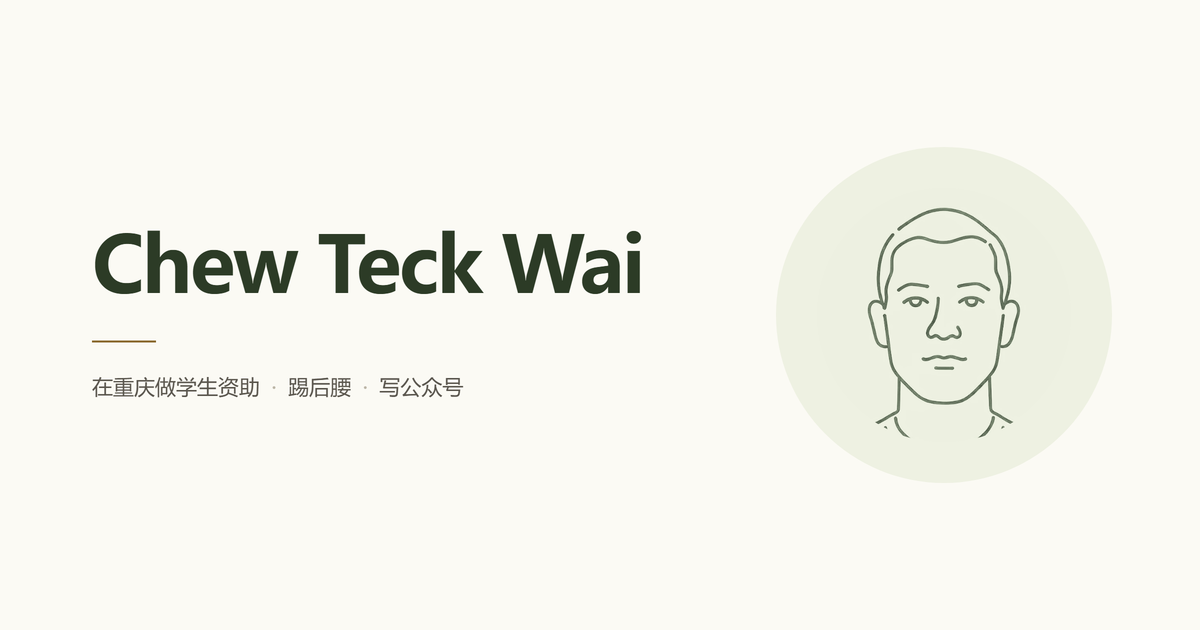
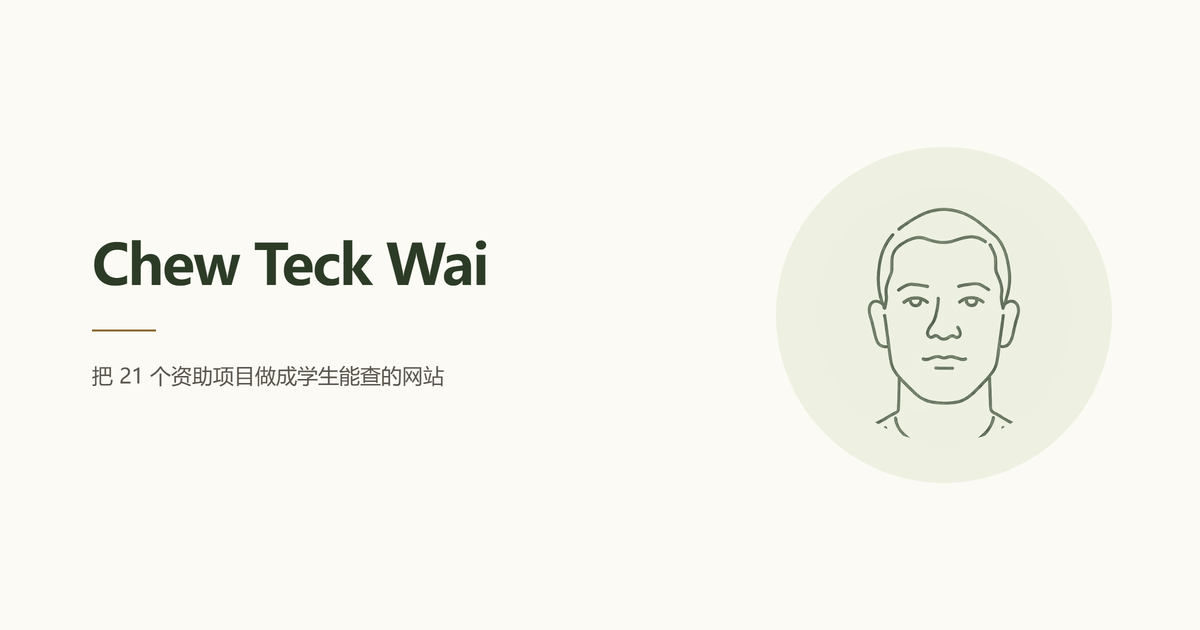
首屏重写：职位句改成价值句，撤下三名词堆砌（依据 worrydream/leerob/taniarascia 的开场模式）

Changed region(s): [[0.0617, 0.3619, 0.555, 0.4825], [0.0617, 0.573, 0.4008, 0.6333], [0.0617, 0.5127, 0.1233, 0.5429]]

diff --git a/index.html b/index.html
@@ -9,7 +9,7 @@
 <meta name="theme-color" content="#FBFAF4" media="(prefers-color-scheme:light)">
 <meta name="theme-color" content="#131614" media="(prefers-color-scheme:dark)">
 <title>Chew Teck Wai</title>
-<meta name="description" content="在重庆做学生资助，之前在中国银行做了五年理财经理。踢后腰，写公众号。">
+<meta name="description" content="把 21 个资助项目做成学生自己就能查的网站。在中国银行做了五年理财经理，现在写《停不下来的独行侠》。">
 <link rel="icon" href="data:,">
 
 <!-- B2 首页 OG / Twitter / canonical 一套。静态写死，不靠 JS（微信爬虫不执行 JS）
@@ -19,7 +19,7 @@
 <meta property="og:type" content="website">
 <meta property="og:site_name" content="Chew Teck Wai">
 <meta property="og:title" content="Chew Teck Wai">
-<meta property="og:description" content="在重庆做学生资助，之前在中国银行做了五年理财经理。踢后腰，写公众号。">
+<meta property="og:description" content="把 21 个资助项目做成学生自己就能查的网站。在中国银行做了五年理财经理，现在写《停不下来的独行侠》。">
 <meta property="og:locale" content="zh_CN">
 <meta property="og:url" content="https://aot528800-hash.github.io/me/">
 <meta property="og:image" content="https://aot528800-hash.github.io/me/assets/og-home.png">
@@ -1555,10 +1555,10 @@ html.js .view.is-active{ display:block; }
       <div class="container hero-wrap">
         <div class="cols hero-inner">
           <div class="hero-text">
-            <p class="hero-eyebrow">重庆 · 学生资助 · 后腰</p>
+            <p class="hero-eyebrow">重庆</p>
             <h1 class="hero-name" id="hero-name" lang="en">Chew Teck Wai</h1>
-            <p class="hero-big">在重庆做学生资助<br><em>把资助政策整理成能查的网站</em></p>
-            <p class="hero-desc">2014 年进中国银行做理财经理，2019 年到学校。21 个资助项目整理成网页和安卓 App。踢后腰，写公众号。</p>
+            <p class="hero-big">把 21 个资助项目<br><em>做成学生自己就能查的网站</em></p>
+            <p class="hero-desc">在中国银行做了五年理财经理，2019 年转到学校。现在把政策、数据和钱，写成普通人能看懂的文字——141 篇在《停不下来的独行侠》。</p>
             <p class="btn-row">
               <a class="btn btn--ink" href="#/story">时间线</a>
               <a class="btn btn--blue" href="#/football">足球记录</a>

diff --git a/设计规范.md b/设计规范.md
@@ -1378,3 +1378,30 @@ Kaplan 的**注意力恢复理论**（ART）把注意力分两种：定向注意
 **新增链接的可点面积**：11px 小链只有 20px 高，用透明伪元素 `inset:-14px -12px` 撑到 44px（和「完整时间线」同一招）。
 
 验收：axe 16/16、html-validate 0 error、点击目标 0 不合格、首屏 178.5KB / 2 请求、CLS 0。
+
+### J-9 首屏表述重写（2026-11-15，站长明确否掉旧版）
+
+站长原话：「在重庆做学生资助 / 把资助政策整理成能查的网站 / 2014 年进中国银行做理财经理，2019 年到学校。21 个资助项目整理成网页和安卓 App。踢后腰，写公众号。」——「都很落伍」「并没有表述个啥东西」「重庆学生资助后腰哎，都他妈写的啥呀」。
+
+**先做了研究再动手**（都是实抓的原文）：
+- **Bret Victor**（worrydream.com）：首屏只有一句 "I've dedicated my life to creating a humane dynamic medium."，连职位都不写，署名后面跟的是 "human being"
+- **Lee Robinson**（leerob.io）：先身份后使命，"My life's work is to make technology easy to understand and interesting to learn about." —— 职位退到使命后面
+- **Tania Rascia**：一句称呼+一行身份，剩下交给时间线和作品
+- **Jose Ocando**："One of my deepest joys comes from equipping creative people with the visual tools they need" —— 价值句式，从「我让什么变好」出发
+
+**四条共性**：开场句回答「我让什么东西变得怎么样」，不回答「我的职位是什么」；职位和时间线沉到第二层；一行只讲一个动词；没人把行业+岗位+爱好堆在同一行。旧版四条全违反：eyebrow 是三名词堆砌，大字第一句是职位句，desc 是简历流水账。
+
+**改法**（旧 → 新）：
+
+| 层 | 旧 | 新 | 依据 |
+|---|---|---|---|
+| eyebrow | 重庆 · 学生资助 · 后腰 | 重庆 | 三名词堆砌零信息，删掉两个；顶级站 eyebrow 只放地理定位 |
+| hero-big 第一行 | 在重庆做学生资助 | 把 21 个资助项目 | 职位句 → 动作句：动词+具体对象（21 个是真实数字） |
+| hero-big 第二行 | 把资助政策整理成能查的网站 | 做成学生自己就能查的网站 | 「整理成能查」→「学生自己就能查」：从「我做了什么」变成「用户得到什么」 |
+| hero-desc | 2014 年进中国银行做理财经理，2019 年到学校。21 个资助项目整理成网页和安卓 App。踢后腰，写公众号。 | 在中国银行做了五年理财经理，2019 年转到学校。现在把政策、数据和钱，写成普通人能看懂的文字——141 篇在《停不下来的独行侠》。 | 简历流水账 → 一句来路+一句现在在做什么；「政策、数据和钱」正好对应博客三大主题；141 篇是真实数 |
+
+**「后腰」从首屏撤下**：不是删掉，是归位——首屏按钮「足球记录」、导航「足球」、整页足球记录都还在。首屏第一行只放一个身份，不放三个。
+
+**同步**：meta description / og:description 同步改；分享卡 og-home.png 重渲染（文案换掉，「Chew Teck Wai」字号 78→56 保持单行）；DEPLOY.md 里的分享卡描述同步。
+
+验收：html-validate 0 error；axe 16/16；点击目标 0 不合格；控制台 0 错误；hero-big 桌面 42px/两行、手机两行，无折行异常。

diff --git a/DEPLOY.md b/DEPLOY.md
@@ -178,7 +178,7 @@ rmSync(OUT, { recursive: true, force: true })
 
 ### 分享图长什么样
 
-`assets/og-home.png`：米白底、深橄榄的 `Chew Teck Wai`、一道金线、一句「在重庆做学生资助 · 踢后腰 · 写公众号」，右边是与首屏同一个头像圆。换头像或改那句话时，这张图要重做——它不参与页面渲染，页面改它不会跟着变。
+`assets/og-home.png`：米白底、深橄榄的 `Chew Teck Wai`、一道金线、一句「把 21 个资助项目做成学生能查的网站」，右边是与首屏同一个头像圆。换头像或改那句话时，这张图要重做——它不参与页面渲染，页面改它不会跟着变。
 
 ---
 
